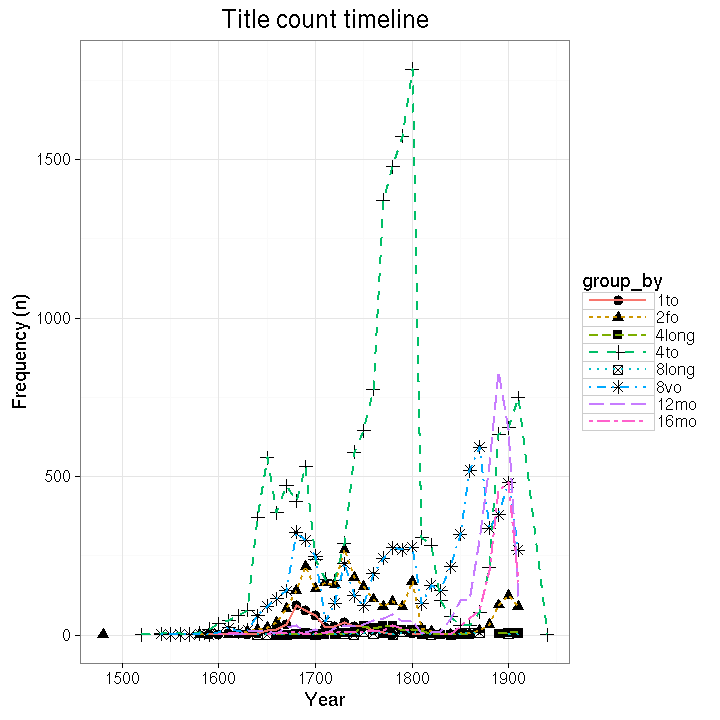
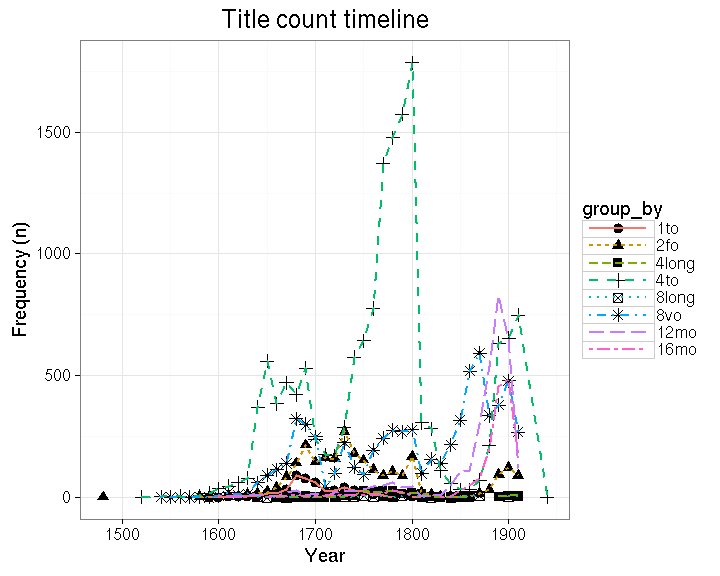
Rmd update

diff --git a/inst/examples/size.md b/inst/examples/size.md
@@ -62,7 +62,7 @@ The estimates are based on the following auxiliary information sheets:
 
 Estimates of document size (area) info in gatherings system are available for 68561 documents (100%). Also compare gatherings and area sizes as a quality check. This includes all data; the area has been estimated from the gatherings when dimension information was not available.
 
-![plot of chunk size-summary](figure/size-size-summary-1.png)![plot of chunk size-summary](figure/size-size-summary-2.png)
+<img src="figure/size-size-summary-1.png" title="plot of chunk size-summary" alt="plot of chunk size-summary" width="430px" /><img src="figure/size-size-summary-2.png" title="plot of chunk size-summary" alt="plot of chunk size-summary" width="430px" />
 
 
 Document dimension histogram (surface area). Few document sizes dominate publishing.
@@ -73,7 +73,7 @@ Document dimension histogram (surface area). Few document sizes dominate publish
 Gatherings versus page counts, and original gatherings versus original heights where both are available. The point size indicates the number of documents with the corresponding combination. The red dots indicate the estimated height that is used when only gathering information is available. It seems that in most documents, the given height is smaller than the correponding estimate.
 
 
-![plot of chunk size-pagecomp](figure/size-size-pagecomp-1.png)![plot of chunk size-pagecomp](figure/size-size-pagecomp-2.png)
+<img src="figure/size-size-pagecomp-1.png" title="plot of chunk size-pagecomp" alt="plot of chunk size-pagecomp" width="430px" /><img src="figure/size-size-pagecomp-2.png" title="plot of chunk size-pagecomp" alt="plot of chunk size-pagecomp" width="430px" />
 
 ### Gatherings timelines
 
